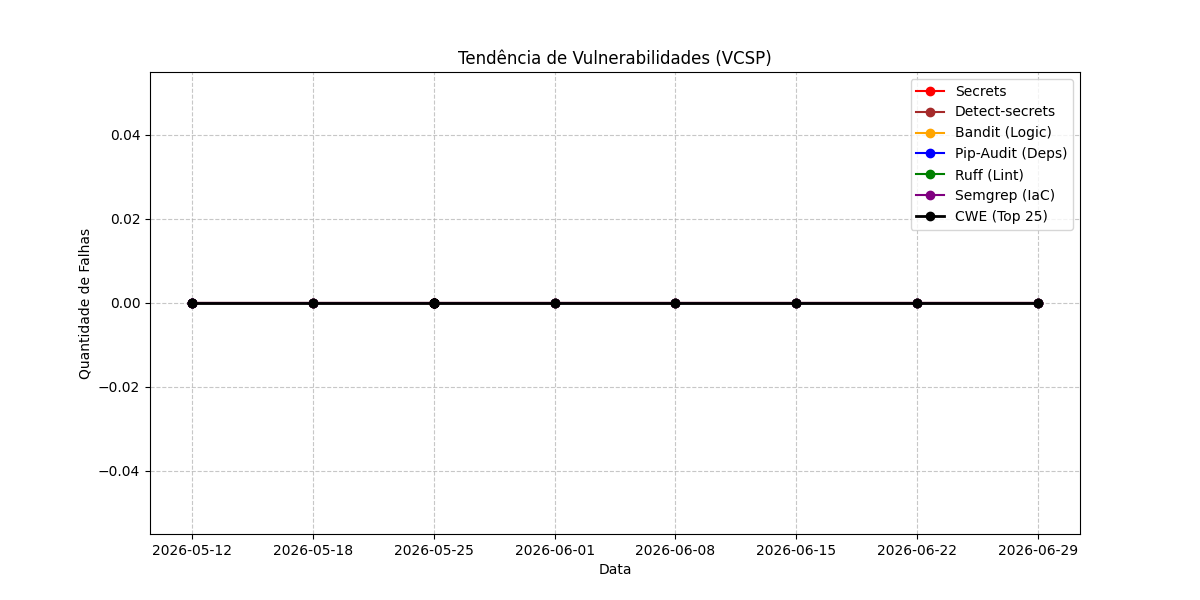
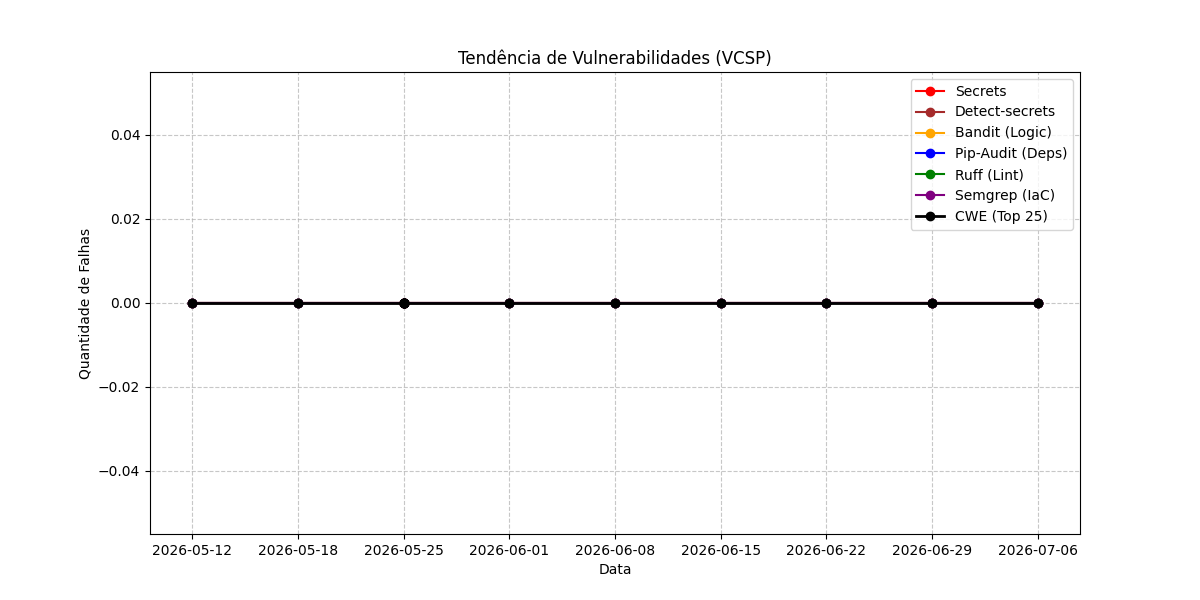
docs: update security trend chart

Changed region(s): [[0.2158, 0.9, 0.8017, 0.93], [0.8633, 0.9, 0.8942, 0.93], [0.2467, 0.48, 0.2775, 0.51]]

diff --git a/README.md b/README.md
@@ -206,7 +206,7 @@ O VCSP realiza as seguintes verificações automáticas em cada execução:
 O gráfico abaixo mostra a tendência das vulnerabilidades encontradas por cada ferramenta ao longo do tempo:
 
 
-![Bug Trend](.vibe/assets/bug_trend.png?v=20260629123324)
+![Bug Trend](.vibe/assets/bug_trend.png?v=20260706120412)
 
 ---
 